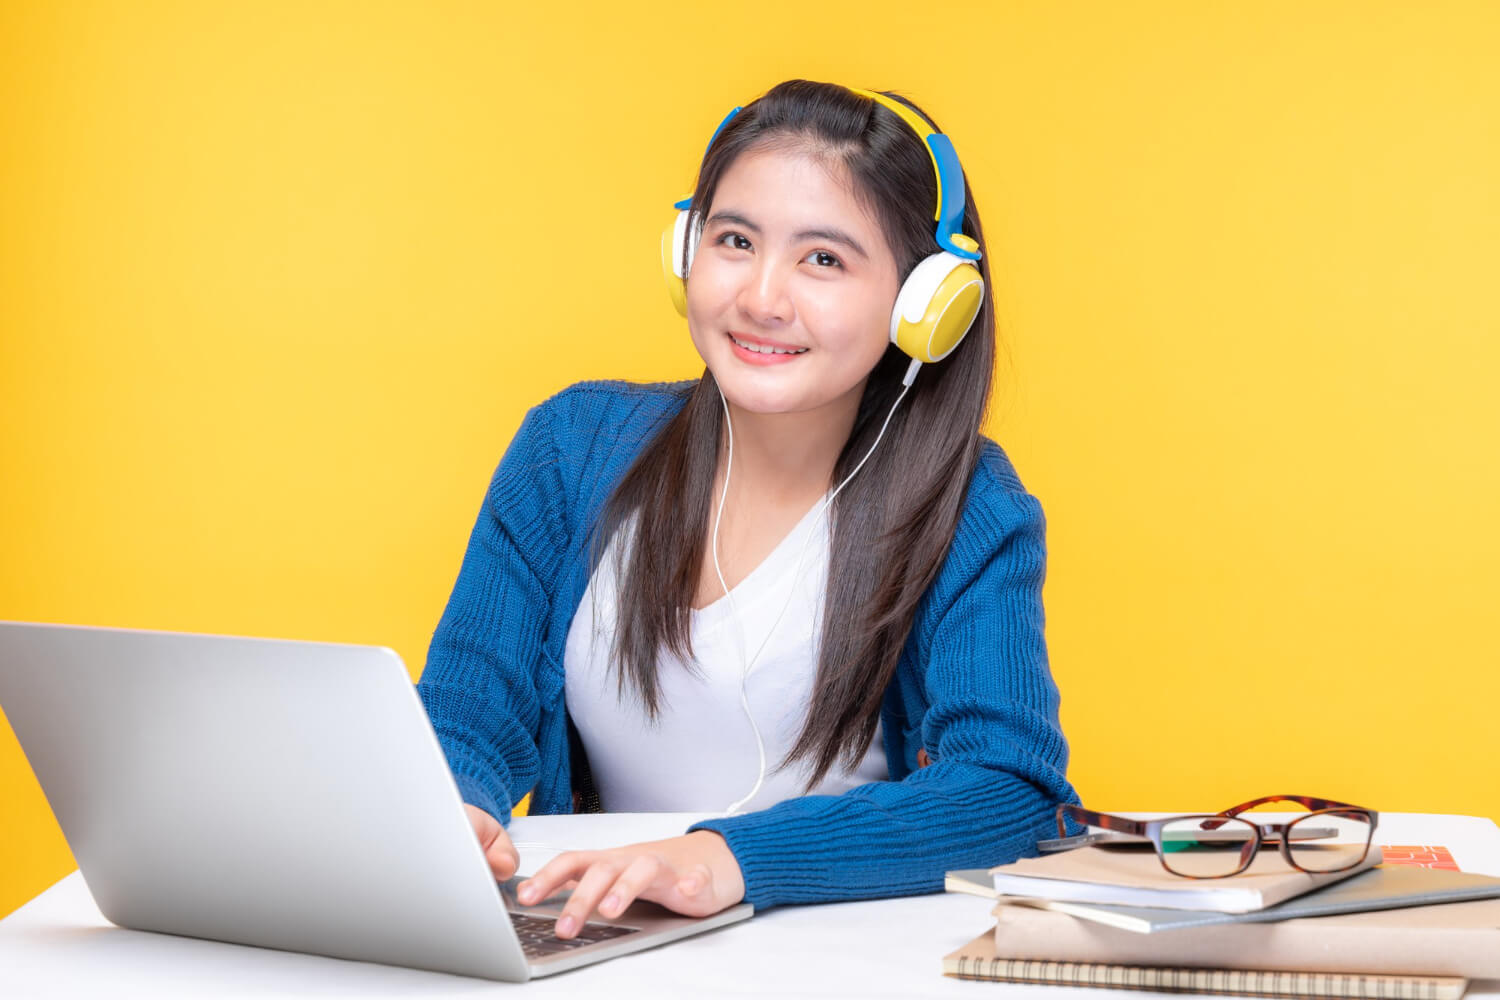
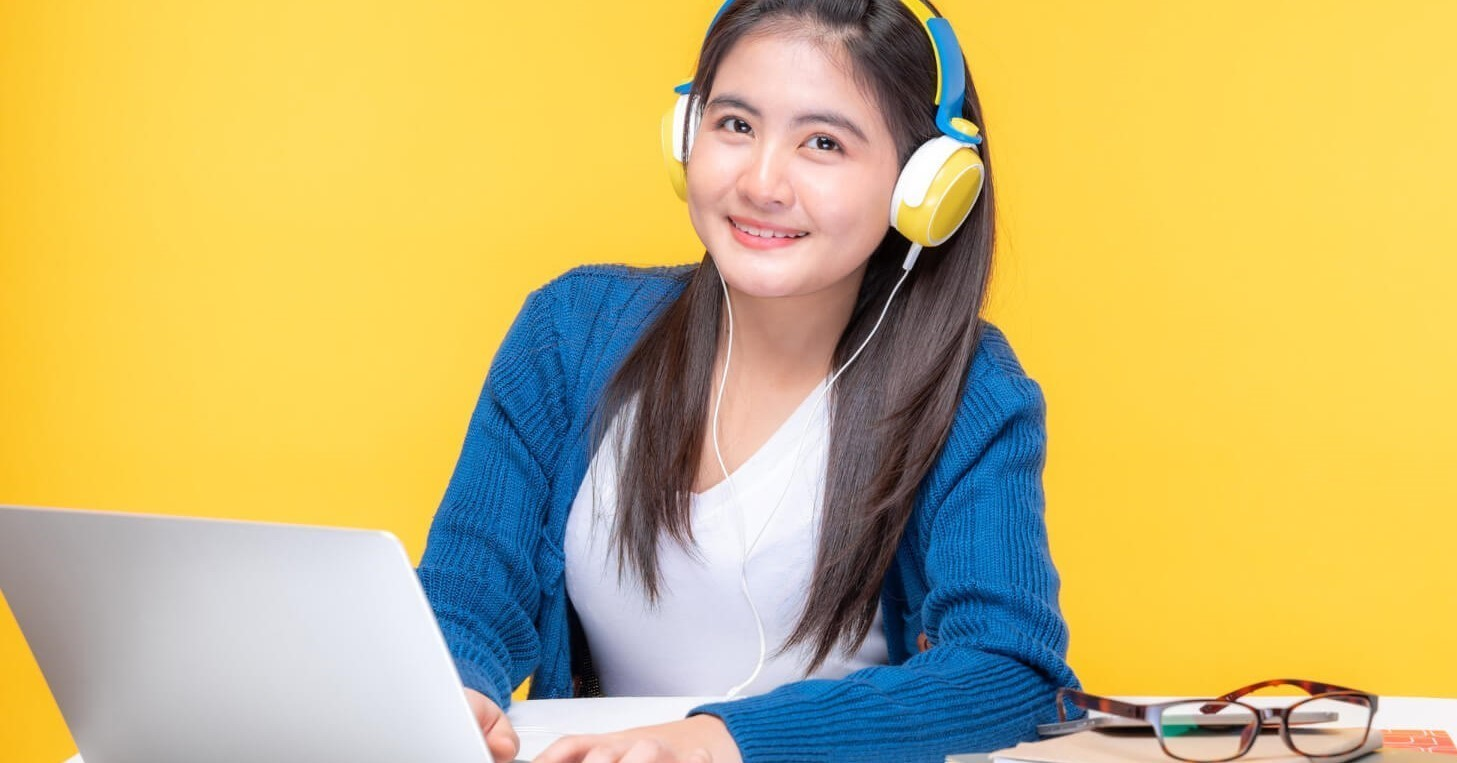
slider added

diff --git a/index.html b/index.html
@@ -8,7 +8,7 @@
   </head>
   <body>
     <header class="container">
-        <nav class="navbar navbar-expand-lg bg-light py-4">
+        <nav class="navbar navbar-expand-lg bg-white py-4">
             <div class="container">
               <a class="navbar-brand fs-2 text fw-bold" href="#">EdTech</a>
               <button class="navbar-toggler" type="button" data-bs-toggle="collapse" data-bs-target="#navbarSupportedContent" aria-controls="navbarSupportedContent" aria-expanded="false" aria-label="Toggle navigation">
@@ -42,6 +42,56 @@
               </div>
             </div>
           </nav>
+          <section class="container  my-3">
+            <div id="carouselExampleCaptions" class="carousel slide" data-bs-ride="false">
+               
+                <div class="carousel-inner">
+                  <div class="carousel-item active">
+                    <img src="images/cover/cover-1.png" class="d-block w-100 h-50" alt="...">
+                    <div class="carousel-caption d-flex align-items-center d-md-block">
+                      <div class="pb-lg-3 pt-5 mt-5">
+                        <h1 class="fw-bold  text-white">Get Started Digital <br> Learning</h1>
+                      <p class="text-white">It is a long established fact that a reader will be distracted by the readable <br>
+                        content of a page when looking at its layout.</p>
+                        <button class="btn btn-primary mb-lg-5 fw-bold px-3 py-2">Get Started</button>
+                      </div>
+                    </div>
+                  </div>
+                  <div class="carousel-item active">
+                    <img src="images/cover/cover-2.jpg" class="d-block w-100 h-25 rounded" alt="...">
+                    <div class="carousel-caption d-flex align-items-center d-md-block ">
+                      <div class="pb-lg-3 pt-5 mt-5">
+                        <h1 class="fw-bold  text-white">Get Started Digital <br> Learning</h1>
+                      <p class=" text-white">It is a long established fact that a reader will be distracted by the readable <br>
+                        content of a page when looking at its layout.</p>
+                        <button class="btn btn-primary mb-lg-5 fw-bold px-3 py-3">Get Started</button>
+                      </div>
+                    </div>
+                  </div>
+                  <div class="carousel-item active">
+                    <img src="images/cover/cover-3.jpg" class="d-block w-100 h-50 rounded" alt="...">
+                    <div class="carousel-caption d-flex align-items-center d-md-block ">
+                      <div class="pb-lg-3 pt-5 mt-5">
+                        <h1 class="fw-bold  text-white">Get Started Digital <br> Learning</h1>
+                      <p class="text-white">It is a long established fact that a reader will be distracted by the readable <br>
+                        content of a page when looking at its layout.</p>
+                        <button class="btn btn-primary mb-lg-5 fw-bold px-3 py-2">Get Started</button>
+                      </div>
+                    </div>
+                  </div>
+              
+                </div>
+                <button class="carousel-control-prev" type="button" data-bs-target="#carouselExampleCaptions" data-bs-slide="prev">
+                  <span class="carousel-control-prev-icon" aria-hidden="true"></span>
+                  <span class="visually-hidden">Previous</span>
+                </button>
+                <button class="carousel-control-next" type="button" data-bs-target="#carouselExampleCaptions" data-bs-slide="next">
+                  <span class="carousel-control-next-icon" aria-hidden="true"></span>
+                  <span class="visually-hidden">Next</span>
+                </button>
+              </div>
+          </section>
+          
     </header>
     <script src="https://cdn.jsdelivr.net/npm/bootstrap@5.2.1/dist/js/bootstrap.bundle.min.js" integrity="sha384-u1OknCvxWvY5kfmNBILK2hRnQC3Pr17a+RTT6rIHI7NnikvbZlHgTPOOmMi466C8" crossorigin="anonymous"></script>
   </body>
